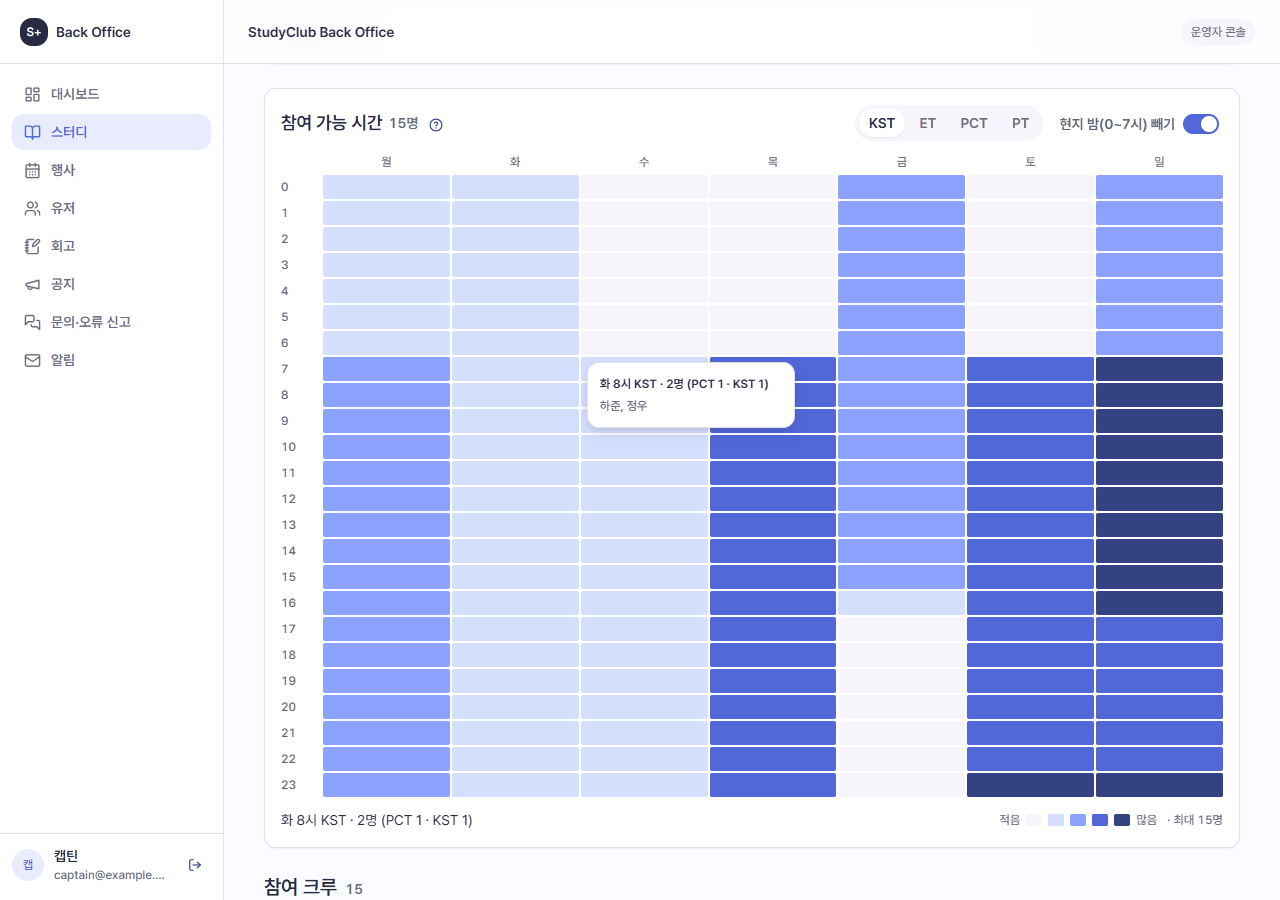
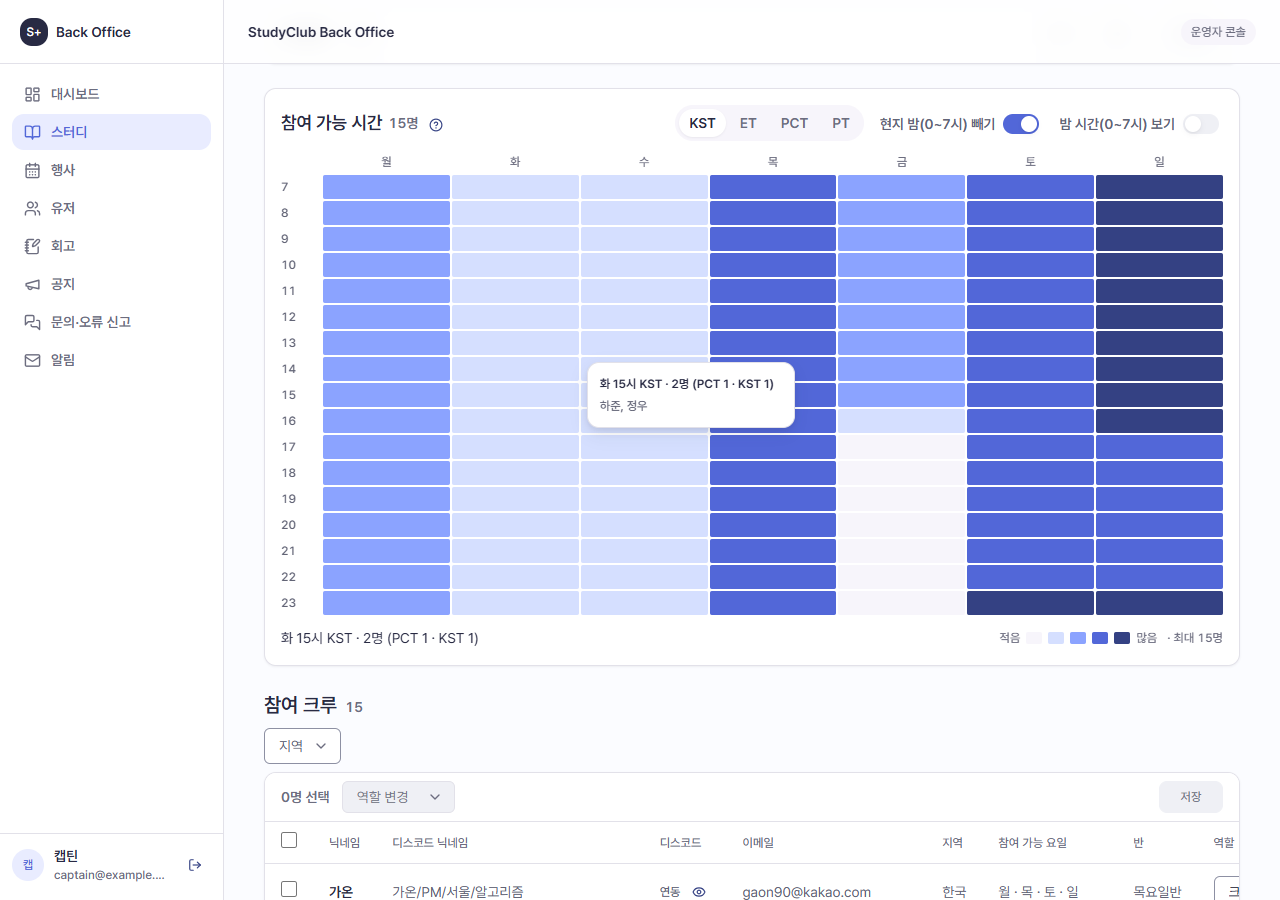
feat(playground): 참여 가능 시간 — 기준 시간대 0~6시 줄은 처음 숨기고 「밤 시간 보기」로 펼침
- 그 시각엔 어느 시간대든 스터디를 열지 않는다. 진하기 기준(최대 인원)은 보이는 줄에서 잡는다
- back-office 신청자 탭도 같게. spec.ts 3-6 · PRD · 결정 문서 · e2e 대응표 갱신, 화면 다시 찍음

diff --git a/frontend/apps/playground/src/proto/console/components/AvailabilityBoard.tsx b/frontend/apps/playground/src/proto/console/components/AvailabilityBoard.tsx
@@ -14,8 +14,9 @@ import {
 
 export type AvailabilityPick = { day: number; hour: number; baseZone: string; ids: string[] };
 
-// 시각을 줄(0 ~ 23시, 모두 적는다), 요일을 열로 둔다
-const ROWS = Array.from({ length: 24 }, (_, h) => ({ key: String(h), label: String(h) }));
+// 시각을 줄(모두 적는다), 요일을 열로 둔다. 기준 시간대 0 ~ 6시는 스터디를 열지 않는 시각이라 처음엔 숨긴다
+const ALL_HOURS = Array.from({ length: 24 }, (_, h) => h);
+const DAY_HOURS = ALL_HOURS.filter((h) => h >= NIGHT_END_HOUR);
 const COLS = WEEKDAY_KEYS.map((k) => ({ key: k, label: WEEKDAY_LABELS_KO[k] }));
 
 /** 『월 21시 KST』 */
@@ -38,13 +39,18 @@ export function AvailabilityBoard({
 }) {
   const [baseZone, setBaseZone] = useState<string>(SCHEDULE_ZONES[0]!.iana);
   const [excludeNight, setExcludeNight] = useState(true);
+  const [showNightRows, setShowNightRows] = useState(false);
+  const hours = showNightRows ? ALL_HOURS : DAY_HOURS;
   const overlap = useMemo(
     () => availabilityOverlap(people, { baseZone, excludeNight }),
     [people, baseZone, excludeNight],
   );
   const names = useMemo(() => new Map(people.map((p) => [p.id, p.name])), [people]);
-  const selected = pick && pick.baseZone === baseZone ? { row: pick.hour, col: pick.day } : null;
   const cellAt = (hour: number, day: number) => overlap.cells[day]![hour]!;
+  const pickRow = pick && pick.baseZone === baseZone ? hours.indexOf(pick.hour) : -1;
+  const selected = pick && pickRow >= 0 ? { row: pickRow, col: pick.day } : null;
+  // 진하기의 기준은 보이는 줄의 최대 인원
+  const max = Math.max(0, ...hours.flatMap((h) => WEEKDAY_KEYS.map((_, d) => cellAt(h, d).ids.length)));
 
   function describe(hour: number, day: number): string {
     const cell = cellAt(hour, day);
@@ -62,7 +68,8 @@ export function AvailabilityBoard({
 
   function select(cell: HeatGridCell | null) {
     if (!cell) return onPick(null);
-    onPick({ day: cell.col, hour: cell.row, baseZone, ids: cellAt(cell.row, cell.col).ids });
+    const hour = hours[cell.row]!;
+    onPick({ day: cell.col, hour, baseZone, ids: cellAt(hour, cell.col).ids });
   }
 
   // 기준 · 밤 빼기를 바꾸면 고른 칸의 사람이 달라진다 — 고른 칸은 푼다
@@ -72,6 +79,10 @@ export function AvailabilityBoard({
   }
   function changeNight(next: boolean) {
     setExcludeNight(next);
+    onPick(null);
+  }
+  function changeNightRows(next: boolean) {
+    setShowNightRows(next);
     onPick(null);
   }
 
@@ -108,18 +119,25 @@ export function AvailabilityBoard({
               onCheckedChange={changeNight}
             />
           </span>
+          <span data-anno='class:3-6'>
+            <Switch
+              label={`밤 시간(0~${NIGHT_END_HOUR}시) 보기`}
+              checked={showNightRows}
+              onCheckedChange={changeNightRows}
+            />
+          </span>
         </div>
       </div>
       <div data-anno='class:3-4'>
         <HeatGrid
           aria-label={`참여 가능 인원 · 시각 × 요일 (${zoneSymbol(baseZone)})`}
-          rows={ROWS}
+          rows={hours.map((h) => ({ key: String(h), label: String(h) }))}
           columns={COLS}
-          value={(h, d) => cellAt(h, d).ids.length}
-          max={overlap.max}
+          value={(r, d) => cellAt(hours[r]!, d).ids.length}
+          max={max}
           unit='명'
-          describe={describe}
-          tooltip={who}
+          describe={(r, d) => describe(hours[r]!, d)}
+          tooltip={(r, d) => who(hours[r]!, d)}
           selected={selected}
           onSelect={select}
           hint='칸을 누르면 그 시각에 되는 크루만 명단에 남습니다.'

diff --git a/frontend/apps/back-office-front/src/features/participants/AvailabilitySection.tsx b/frontend/apps/back-office-front/src/features/participants/AvailabilitySection.tsx
@@ -15,8 +15,9 @@ import { DISPLAY_ZONES, zoneLabel } from '@/features/schedule/time';
 
 export type AvailabilityPick = { day: number; hour: number; baseZone: string; ids: number[] };
 
-// 시각을 줄(0 ~ 23시, 모두 적는다), 요일을 열로 둔다
-const ROWS = Array.from({ length: 24 }, (_, h) => ({ key: String(h), label: String(h) }));
+// 시각을 줄(모두 적는다), 요일을 열로 둔다. 기준 시간대 0 ~ 6시는 스터디를 열지 않는 시각이라 처음엔 숨긴다
+const ALL_HOURS = Array.from({ length: 24 }, (_, h) => h);
+const DAY_HOURS = ALL_HOURS.filter((h) => h >= NIGHT_END_HOUR);
 const COLS = WEEKDAY_KEYS.map((k) => ({ key: k, label: WEEKDAY_LABELS_KO[k] }));
 
 /** 『월 21시 KST』 */
@@ -39,13 +40,18 @@ export function AvailabilitySection({
 }) {
   const [baseZone, setBaseZone] = useState<string>(DISPLAY_ZONES[0].iana);
   const [excludeNight, setExcludeNight] = useState(true);
+  const [showNightRows, setShowNightRows] = useState(false);
+  const hours = showNightRows ? ALL_HOURS : DAY_HOURS;
   const overlap = useMemo(
     () => availabilityOverlap(people, { baseZone, excludeNight }),
     [people, baseZone, excludeNight],
   );
   const names = useMemo(() => new Map(people.map((p) => [p.id, p.name])), [people]);
-  const selected = pick && pick.baseZone === baseZone ? { row: pick.hour, col: pick.day } : null;
   const cellAt = (hour: number, day: number) => overlap.cells[day]![hour]!;
+  const pickRow = pick && pick.baseZone === baseZone ? hours.indexOf(pick.hour) : -1;
+  const selected = pick && pickRow >= 0 ? { row: pickRow, col: pick.day } : null;
+  // 진하기의 기준은 보이는 줄의 최대 인원
+  const max = Math.max(0, ...hours.flatMap((h) => WEEKDAY_KEYS.map((_, d) => cellAt(h, d).ids.length)));
 
   function describe(hour: number, day: number): string {
     const cell = cellAt(hour, day);
@@ -63,7 +69,8 @@ export function AvailabilitySection({
 
   function select(cell: HeatGridCell | null) {
     if (!cell) return onPick(null);
-    onPick({ day: cell.col, hour: cell.row, baseZone, ids: cellAt(cell.row, cell.col).ids });
+    const hour = hours[cell.row]!;
+    onPick({ day: cell.col, hour, baseZone, ids: cellAt(hour, cell.col).ids });
   }
 
   return (
@@ -97,17 +104,25 @@ export function AvailabilitySection({
               onPick(null);
             }}
           />
+          <Switch
+            label={`밤 시간(0~${NIGHT_END_HOUR}시) 보기`}
+            checked={showNightRows}
+            onCheckedChange={(next) => {
+              setShowNightRows(next);
+              onPick(null);
+            }}
+          />
         </div>
       </div>
       <HeatGrid
         aria-label={`참여 가능 인원 · 시각 × 요일 (${zoneLabel(baseZone)})`}
-        rows={ROWS}
+        rows={hours.map((h) => ({ key: String(h), label: String(h) }))}
         columns={COLS}
-        value={(h, d) => cellAt(h, d).ids.length}
-        max={overlap.max}
+        value={(r, d) => cellAt(hours[r]!, d).ids.length}
+        max={max}
         unit='명'
-        describe={describe}
-        tooltip={who}
+        describe={(r, d) => describe(hours[r]!, d)}
+        tooltip={(r, d) => who(hours[r]!, d)}
         selected={selected}
         onSelect={select}
         hint='칸을 누르면 그 시각에 되는 크루만 명단에 남습니다.'

diff --git a/frontend/apps/playground/src/app/(proto)/proto/console/studies/[id]/spec.ts b/frontend/apps/playground/src/app/(proto)/proto/console/studies/[id]/spec.ts
@@ -949,7 +949,8 @@ export const CLASS_SPEC: ScreenSpec = {
       title: '참여 가능 시간',
       when: '명단에 크루가 한 명 이상일 때',
       display: [
-        '기준 시간대의 시각(줄, 0 ~ 23시 모두 적는다) × 요일(열)마다 그 시각에 참여할 수 있는 크루 수를 알려준다. 많을수록 진하다',
+        '기준 시간대의 시각(줄) × 요일(열)마다 그 시각에 참여할 수 있는 크루 수를 알려준다. 많을수록 진하다',
+        '처음엔 7 ~ 23시 줄만 보인다 — 0 ~ 6시 줄은 「밤 시간 보기」(3-6)로 펼친다',
         '반 · 지역 필터로 좁힌 명단을 센다',
       ],
       policy: [
@@ -1000,6 +1001,17 @@ export const CLASS_SPEC: ScreenSpec = {
       title: '설명',
       behavior: [
         '「?」를 누르면 「신청서는 요일만 받습니다. 고른 요일은 그 크루 현지의 하루 전체로 보고, 기준 시간대의 요일 · 시각으로 옮겨 셉니다. 프로필 시간대가 없는 크루는 한국 시간으로 봅니다. 북미 서머타임은 이번 주 날짜로 계산합니다.」',
+      ],
+    },
+    {
+      n: '3-6',
+      title: '밤 시간 보기',
+      display: ['「밤 시간(0~7시) 보기」 — 처음은 꺼짐'],
+      behavior: ['켜면 기준 시간대 0 ~ 6시 줄이 위에 더해지고, 끄면 숨는다. 바꾸면 고른 칸(3-4)은 풀린다'],
+      policy: [
+        '기준 시간대 0 ~ 6시에는 어느 시간대든 스터디를 열지 않는다 — 처음부터 숨긴다',
+        '숨겨도 셈은 같다. 진하기의 기준(최대 인원)만 보이는 줄에서 잡는다',
+        '현지 밤 빼기(3-3)와 다르다 — 3-3 은 크루 현지 시각, 3-6 은 기준 시간대 시각',
       ],
     },
     {

diff --git a/frontend/apps/back-office-front/src/features/participants/ParticipantsTab.test.tsx b/frontend/apps/back-office-front/src/features/participants/ParticipantsTab.test.tsx
@@ -599,8 +599,12 @@ describe('참여 가능 시간', () => {
 
   it('현지 밤 빼기를 끄면 크루 현지 새벽 칸도 센다', async () => {
     mount(withDays);
+    // 기준 시간대 0 ~ 6시 줄은 처음엔 숨기고, 「밤 시간 보기」로 펼친다
+    expect(await screen.findByRole('button', { name: '월 7시 KST · 1명' })).toBeVisible();
+    expect(screen.queryByRole('button', { name: /^월 3시 KST/ })).not.toBeInTheDocument();
+    await userEvent.click(screen.getByRole('switch', { name: '밤 시간(0~7시) 보기' }));
     // KST 월 3시 — 한국크루 현지 새벽
-    expect(await screen.findByRole('button', { name: '월 3시 KST · 0명' })).toBeVisible();
+    expect(screen.getByRole('button', { name: '월 3시 KST · 0명' })).toBeVisible();
     await userEvent.click(screen.getByRole('switch', { name: '현지 밤(0~7시) 빼기' }));
     expect(screen.getByRole('button', { name: '월 3시 KST · 1명' })).toBeVisible();
   });

diff --git a/01-planning/stories/captain-assign-classes/PRD.md b/01-planning/stories/captain-assign-classes/PRD.md
@@ -42,7 +42,7 @@ flowchart LR
 10. 반의 기간은 저장하지 않음 — 첫 회차 ~ 마지막 회차
 11. 캡틴 전용 명단 줄 없음. 참여하려는 캡틴은 신청 폼 제출 후 크루와 같은 줄로 표시
 12. 참여 가능 시간 확인 — 기준 시간대의 시각(줄) × 요일(열)마다 참여 가능 인원. 칸에 올리면 그 시각에 되는 크루 닉네임
-13. 기준 시간대 전환(KST · ET · PCT · PT) 및 현지 밤(0~7시) 빼기 켜고 끄기. 처음은 KST · 켜짐
+13. 기준 시간대 전환(KST · ET · PCT · PT) 및 현지 밤(0~7시) 빼기 켜고 끄기. 처음은 KST · 켜짐 · 기준 시간대 0~6시 줄은 처음 숨기고 「밤 시간 보기」로 펼침
 14. 칸 고르기로 그 시각에 되는 크루만 명단에 남기기 · 풀기
 15. 명단 「참여 가능 요일」 열 — 크루가 고른 현지 요일. 없으면 「-」
 16. 프로필 시간대가 없는 크루는 KST 로 센다
@@ -101,6 +101,7 @@ flowchart LR
   - 신청서의 참여 가능 요일은 크루 현지의 하루 전체(0~24시)로 본다
   - 칸마다 그 순간 크루 프로필 시간대의 요일 · 시각을 계산해 센다. 서머타임은 이번 주 날짜로 계산한다
   - 밤 빼기가 켜져 있으면 크루 현지 0시 이상 7시 미만 칸에는 그 크루를 세지 않는다
+  - 기준 시간대 0 ~ 6시 줄은 처음엔 숨긴다 — 그 시각엔 스터디를 열지 않는다. 「밤 시간(0~7시) 보기」로 펼친다
   - 프로필 시간대가 없는 크루는 KST 로 본다. 따로 알리지 않는다
   - 인원 숫자를 늘 글로 함께 보인다 — 진하기만으로 읽게 두지 않는다
 - **데이터**: `participants[].availableDays` · `participants[].timeZone`
@@ -251,7 +252,8 @@ erDiagram
 
 - **조건**: 명단에 크루가 한 명 이상일 때
 - **내용**
-  - 기준 시간대의 시각(줄, 0 ~ 23시 모두 적는다) × 요일(열)마다 그 시각에 참여할 수 있는 크루 수를 알려준다. 많을수록 진하다
+  - 기준 시간대의 시각(줄) × 요일(열)마다 그 시각에 참여할 수 있는 크루 수를 알려준다. 많을수록 진하다
+  - 처음엔 7 ~ 23시 줄만 보인다 — 0 ~ 6시 줄은 「밤 시간 보기」(3-6)로 펼친다
   - 반 · 지역 필터로 좁힌 명단을 센다
 - **정책**
   - 신청서의 참여 가능 요일(`availableDays`)은 크루 **현지의 하루 전체**(0~24시)로 본다
@@ -292,6 +294,15 @@ erDiagram
 #### 3-5 — 설명
 
 - **동작**: 「?」를 누르면 「신청서는 요일만 받습니다. 고른 요일은 그 크루 현지의 하루 전체로 보고, 기준 시간대의 요일 · 시각으로 옮겨 셉니다. 프로필 시간대가 없는 크루는 한국 시간으로 봅니다. 북미 서머타임은 이번 주 날짜로 계산합니다.」
+
+#### 3-6 — 밤 시간 보기
+
+- **내용**: 「밤 시간(0~7시) 보기」 — 처음은 꺼짐
+- **동작**: 켜면 기준 시간대 0 ~ 6시 줄이 위에 더해지고, 끄면 숨는다. 바꾸면 고른 칸(3-4)은 풀린다
+- **정책**
+  - 기준 시간대 0 ~ 6시에는 어느 시간대든 스터디를 열지 않는다 — 처음부터 숨긴다
+  - 숨겨도 셈은 같다. 진하기의 기준(최대 인원)만 보이는 줄에서 잡는다
+  - 현지 밤 빼기(3-3)와 다르다 — 3-3 은 크루 현지 시각, 3-6 은 기준 시간대 시각
 
 ### 4 — 시각 필터
 

diff --git a/docs/share/2026-11-21-availability-overlap.md b/docs/share/2026-11-21-availability-overlap.md
@@ -35,6 +35,7 @@
 1. **고른 요일 = 현지 하루 전체(0~24시).** 시각을 안 받으니 가장 넓게 본다.
 2. **기준 시간대 하나로 옮겨 겹친다.** 칸마다 그 순간 각 크루의 현지 요일 · 시각을 계산한다. 서머타임은 이번 주 날짜로 계산한다.
 3. **현지 밤(0~7시) 빼기 — 처음부터 켬, 끌 수 있음.** 하루 전체로 보면 새벽도 겹쳐 보여서, 실제로 모일 수 있는 시간에 가깝게 기본은 뺀다.
+   **기준 시간대 0~6시 줄도 처음엔 숨긴다**(「밤 시간 보기」로 펼침). 그 시각에 스터디를 여는 일은 없다 (2026-11-22).
 4. **칸에 올리면 그 시각에 되는 크루 닉네임이 말풍선으로 보이고, 누르면 명단이 걸러진다.** 그대로 전체 선택 → 「바꿀 반」으로 옮긴다. 칸판은 시각을 줄(0 ~ 23시 모두), 요일을 열로 둔다.
 5. **명단의 「참여 가능 요일」 열은 현지 요일 그대로.** 기준 시간대로 옮기면 하루가 이틀에 걸쳐 오히려 헷갈린다. 시간대는 옆 지역 열이 말한다.
 6. **시간대가 없는 크루는 KST 로 본다.** 온보딩 전 크루가 대부분 한국 크루라 빼는 것보다 낫다. 따로 알리지 않는다 (2026-11-22 바꿈 — 처음에는 빼고 인원을 알렸다).

diff --git a/docs/frontend-development-guide/admin-e2e-prd-map.md b/docs/frontend-development-guide/admin-e2e-prd-map.md
@@ -382,7 +382,7 @@
 | 10 | 반의 기간은 저장하지 않음 — 첫 회차 ~ 마지막 회차 | `BO-ST-025-S03` |
 | 11 | 캡틴 전용 명단 줄 없음. 참여하려는 캡틴은 신청 폼 제출 후 크루와 같은 줄로 표시 | `BO-ST-025-S02` |
 | 12 | 참여 가능 시간 확인 — 기준 시간대의 시각(줄) × 요일(열)마다 참여 가능 인원. 칸에 올리면 그 시각에 되는 크루 닉네임 | `BO-ST-025-S06` (닉네임 말풍선은 단위 테스트 `ParticipantsTab.test.tsx`) |
-| 13 | 기준 시간대 전환(KST · ET · PCT · PT) 및 현지 밤(0~7시) 빼기 켜고 끄기. 처음은 KST · 켜짐 | `BO-ST-025-S06` (단위 테스트 `ParticipantsTab.test.tsx`) |
+| 13 | 기준 시간대 전환(KST · ET · PCT · PT) 및 현지 밤(0~7시) 빼기 켜고 끄기. 처음은 KST · 켜짐. 기준 0~6시 줄은 처음 숨기고 「밤 시간 보기」로 펼침 | `BO-ST-025-S06` (단위 테스트 `ParticipantsTab.test.tsx`) |
 | 14 | 칸 고르기로 그 시각에 되는 크루만 명단에 남기기 · 풀기 | `BO-ST-025-S06` |
 | 15 | 명단 「참여 가능 요일」 열 — 크루가 고른 현지 요일. 없으면 「-」 | `BO-ST-025-S06` |
 | 16 | 프로필 시간대가 없는 크루는 KST 로 센다 | 단위 테스트 `ParticipantsTab.test.tsx` |
